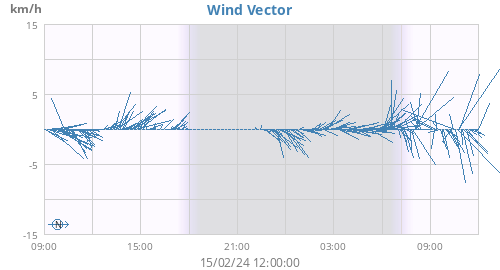
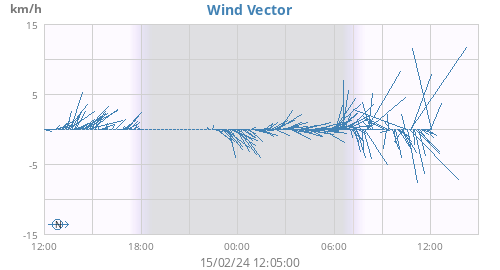
Actualizacion

diff --git a/index.html b/index.html
@@ -13,7 +13,7 @@
 <div id="title_bar">
   <div id="title">
     <h1 class="page_title">Utrera 'La Mulata', Sevilla, Andalucia, Spain</h1>
-    <p class="lastupdate">15/02/24 12:00:00 UTC</p>
+    <p class="lastupdate">15/02/24 12:05:00 UTC</p>
   </div>
   <div id="rss_link"><a href="rss.xml">RSS</a></div>
   <div id="reports">
@@ -52,19 +52,19 @@
     <tbody>
       <tr>
         <td class="label">Outside Temperature</td>
-        <td class="data">17,9&#176;C</td>
+        <td class="data">18,1&#176;C</td>
       </tr>
       <tr>
         <td class="label">Heat Index</td>
-        <td class="data">17,9&#176;C</td>
+        <td class="data">18,0&#176;C</td>
       </tr>
       <tr>
         <td class="label">Wind Chill</td>
-        <td class="data">17,9&#176;C</td>
+        <td class="data">18,1&#176;C</td>
       </tr>
       <tr>
         <td class="label">Dew Point</td>
-        <td class="data">14,3&#176;C</td>
+        <td class="data">14,5&#176;C</td>
       </tr>
       <tr>
         <td class="label">Humidity</td>
@@ -72,16 +72,16 @@
       </tr>
       <tr>
         <td class="label">pressure</td>
-        <td class="data">1010,0 hPa (-5,7)</td>
+        <td class="data">1009,9 hPa (-5,3)</td>
       </tr>
 
       <tr>
         <td class="label">Barometer</td>
-        <td class="data">1016,7 hPa (-5,7)</td>
+        <td class="data">1016,7 hPa (-5,3)</td>
       </tr>
       <tr>
         <td class="label">Wind</td>
-        <td class="data">4 km/h WNW (295&#176;)</td>
+        <td class="data">12 km/h WSW (257&#176;)</td>
       </tr>
       <tr>
         <td class="label">Rain Rate</td>
@@ -125,7 +125,7 @@
           <td class="data">18:02:30</td>
           <td>&nbsp;</td>
           <td class="label">Set</td>
-          <td class="data">00:50:30</td>
+          <td class="data">00:50:29</td>
         </tr>
         <tr>
           <td class="label">Daylight</td>
@@ -167,8 +167,8 @@
       <tr>
         <td class="label">Outside Temperature</td>
         <td class="data new_row hilo_day">
-          <span title="11:58:21">
-            18,0</span><br/>
+          <span title="12:00:22">
+            18,1</span><br/>
           <span title="02:52:46">
             14,2</span>
         </td>
@@ -201,8 +201,8 @@
       <tr>
         <td class="label">Heat Index</td>
         <td class="data new_row hilo_day">
-          <span title="11:58:21" class="hival">
-            17,9</span>
+          <span title="12:00:22" class="hival">
+            18,1</span>
         </td>
         <td class="data new_row hilo_week">
           <span title="16:26:22 (mi&#233;rcoles)" class="hival">
@@ -249,7 +249,7 @@
       <tr>
         <td class="label">Dew Point</td>
         <td class="data new_row hilo_day">
-          <span title="01:07:22">
+          <span title="12:00:22">
             14,6</span><br/>
           <span title="06:34:45">
             10,7</span>
@@ -389,9 +389,9 @@
       <tr>
         <td class="label">Wind Max</td>
         <td class="data new_row hilo_day">
-          <span title="07:58:49">
-            24</span><br/>
-          315
+          <span title="12:00:22">
+            28</span><br/>
+          225
         </td>
         <td class="data new_row hilo_week">
           <span title="01:14:42 (lunes)">
@@ -454,7 +454,7 @@
         </td>
         <td class="data new_row hilo_day">
           2<br/>
-          359
+          357
         </td>
         <td class="data new_row hilo_week">
           1<br/>
@@ -612,11 +612,11 @@
     </tr>
     <tr>
       <td class="label">Server uptime</td>
-      <td class="data">41417 seconds</td>
+      <td class="data">41719 seconds</td>
     </tr>
     <tr>
       <td class="label">WeeWX uptime</td>
-      <td class="data">10597 seconds</td>
+      <td class="data">10900 seconds</td>
     </tr>
     <tr>
       <td class="label">WeeWX version</td>

diff --git a/statistics.html b/statistics.html
@@ -36,7 +36,7 @@
 <div id="title_bar">
   <div id="title">
     <h1 class="page_title">Utrera 'La Mulata', Sevilla, Andalucia, Spain</h1>
-    <p class="lastupdate">15/02/24 12:00:00 UTC</p>
+    <p class="lastupdate">15/02/24 12:05:00 UTC</p>
   </div>
   <div id="rss_link"><a href="rss.xml">RSS</a></div>
   <div id="reports">
@@ -86,8 +86,8 @@
         <tr>
           <td class="label">Outside Temperature</td>
           <td class="units">&#176;C</td>
-          <td class="data new_row">18,0<br/>
-            <span class="timestamp">11:58:21</span><br/>
+          <td class="data new_row">18,1<br/>
+            <span class="timestamp">12:00:22</span><br/>
             14,2<br/>
             <span class="timestamp">02:52:46</span>
           </td>
@@ -115,8 +115,8 @@
         <tr>
           <td class="label">Heat Index</td>
           <td class="units">&#176;C</td>
-          <td class="data new_row">17,9<br/>
-            <span class="timestamp">11:58:21</span>
+          <td class="data new_row">18,1<br/>
+            <span class="timestamp">12:00:22</span>
           </td>
           <td class="data new_row">25,6<br/>
             <span class="timestamp">16:26:22 (mi&#233;rcoles)</span>
@@ -167,7 +167,7 @@
           <td class="label">Dew Point</td>
           <td class="units">&#176;C</td>
           <td class="data new_row">14,6<br/>
-            <span class="timestamp">01:07:22</span><br/>
+            <span class="timestamp">12:00:22</span><br/>
             10,7<br/>
             <span class="timestamp">06:34:45</span>
           </td>
@@ -290,9 +290,9 @@
             &#176;
           </td>
           <td class="data new_row">
-            24<br/>
-            315<br/>
-            <span class="timestamp">07:58:49</span>
+            28<br/>
+            225<br/>
+            <span class="timestamp">12:00:22</span>
           </td>
           <td class="data new_row">
             37<br/>
@@ -350,7 +350,7 @@
           </td>
           <td class="data new_row">
             2<br/>
-            359
+            357
           </td>
           <td class="data new_row">
             1<br/>

diff --git a/celestial.html b/celestial.html
@@ -28,7 +28,7 @@
 <div id="title_bar">
   <div id="title">
     <h1 class="page_title">Utrera 'La Mulata', Sevilla, Andalucia, Spain</h1>
-    <p class="lastupdate">15/02/24 12:00:00 UTC</p>
+    <p class="lastupdate">15/02/24 12:05:00 UTC</p>
   </div>
   <div id="rss_link"><a href="rss.xml">RSS</a></div>
   <div id="reports">
@@ -95,11 +95,11 @@
           </tr>
           <tr>
             <td class="label">Azimuth</td>
-            <td class="data">168.3&deg;</td>
+            <td class="data">169.8&deg;</td>
           </tr>
           <tr>
             <td class="label">Altitude</td>
-            <td class="data">39.3&deg;</td>
+            <td class="data">39.5&deg;</td>
           </tr>
           <tr>
             <td class="label">Right ascension</td>
@@ -119,7 +119,7 @@
             </tr>
           <tr>
             <td class="label">Total daylight</td>
-            <td class="data">10 hours, 50 minutes, 9 seconds<br/>2 minutes, 11 seconds more than yesterday</td>
+            <td class="data">10 hours, 50 minutes, 8 seconds<br/>2 minutes, 11 seconds more than yesterday</td>
           </tr>
         </table>
       </div>
@@ -137,20 +137,20 @@
           </tr>
           <tr>
             <td class="label">Set</td>
-            <td class="data">00:50:30</td>
+            <td class="data">00:50:29</td>
           </tr>
           <tr><td class="label">&nbsp;</td><td class="data">&nbsp;</td></tr>
           <tr>
             <td class="label">Azimuth</td>
-            <td class="data">81.6&deg;</td>
+            <td class="data">82.3&deg;</td>
           </tr>
           <tr>
             <td class="label">Altitude</td>
-            <td class="data">17.6&deg;</td>
+            <td class="data">18.6&deg;</td>
           </tr>
           <tr>
             <td class="label">Right ascension</td>
-            <td class="data">39.8&deg;</td>
+            <td class="data">39.9&deg;</td>
           </tr>
           <tr>
             <td class="label">Declination</td>

diff --git a/meteoclimatic.html b/meteoclimatic.html
@@ -1,21 +1,21 @@
 *VER=DATA2
 *COD=ESAND4100000041710D
 *SIG=7251c323dffb7f4e3220169362571b60
-*UPD=15-02-2024 12:00
-*TMP=17,9
-*WND=4
-*AZI=295
+*UPD=15-02-2024 12:05
+*TMP=18,1
+*WND=12
+*AZI=257
 *BAR=1016,7
 *HUM=79
 *SUN=   N/A
 *UVI=   N/A
-*DHTM=18,0
+*DHTM=18,1
 *DLTM=14,2
 *DHHM=94
 *DLHM=74
 *DHBR=1019,4
 *DLBR=1013,2
-*DGST=24
+*DGST=28
 *DSUN=   N/A
 *DHUV=   N/A
 *DPCP=0,3

diff --git a/tabular.html b/tabular.html
@@ -20,7 +20,7 @@
 <div id="title_bar">
   <div id="title">
     <h1 class="page_title">Utrera 'La Mulata', Sevilla, Andalucia, Spain</h1>
-    <p class="lastupdate">15/02/24 12:00:00 UTC</p>
+    <p class="lastupdate">15/02/24 12:05:00 UTC</p>
   </div>
   <div id="rss_link"><a href="rss.xml">RSS</a></div>
   <div id="reports">

diff --git a/telemetry.html b/telemetry.html
@@ -15,7 +15,7 @@
 <div id="title_bar">
   <div id="title">
     <h1 class="page_title">Utrera 'La Mulata', Sevilla, Andalucia, Spain</h1>
-    <p class="lastupdate">15/02/24 12:00:00 UTC</p>
+    <p class="lastupdate">15/02/24 12:05:00 UTC</p>
   </div>
   <div id="rss_link"><a href="rss.xml">RSS</a></div>
   <div id="reports">
